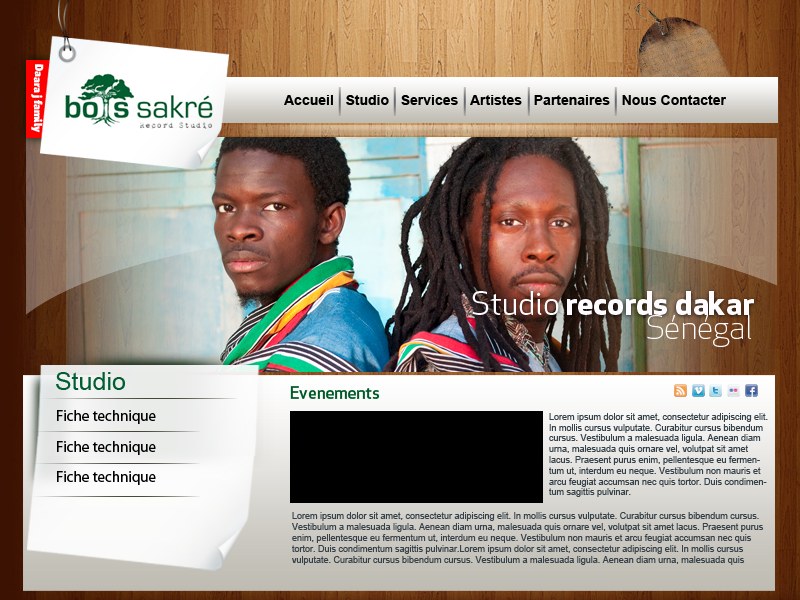
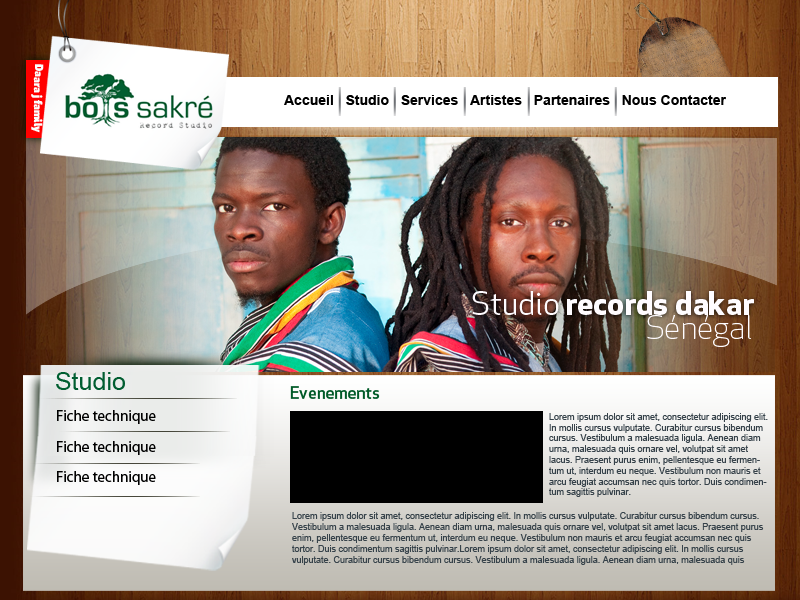
Page Intérieur plus menu gauche ok

Changed region(s): [[0.25, 0.15, 1.0, 0.21], [0.8438, 0.63, 0.9688, 0.66]]

diff --git a/site/squelettes/rubrique.html b/site/squelettes/rubrique.html
@@ -1,0 +1,176 @@
+[(#REM)
+	Un cache plus court, pour la boucle syndic_articles
+]#CACHE{3600}
+<BOUCLE_principale(RUBRIQUES) {id_rubrique}>
+<!DOCTYPE html PUBLIC "-//W3C//DTD XHTML 1.0 Transitional//EN" "http://www.w3.org/TR/xhtml1/DTD/xhtml1-transitional.dtd">
+<html xmlns="http://www.w3.org/1999/xhtml" xml:lang="#LANG" lang="#LANG" dir="#LANG_DIR">
+<head>
+<title>[(#TITRE|textebrut) - ][(#NOM_SITE_SPIP|textebrut)]</title>
+[<meta name="description" content="(#INTRODUCTION{150}|textebrut)" />]
+<INCLURE{fond=inc-head}>
+[(#REM) Lien vers le flux RSS des articles la rubrique ]
+<link rel="alternate" type="application/rss+xml" title="<:syndiquer_rubrique:>" href="[(#URL_PAGE{backend}|parametre_url{id_rubrique,#ID_RUBRIQUE})]" />
+</head>
+
+<body class="page_rubrique">
+<div id="page">
+
+	[(#REM) Entete de la page + titre du site ]
+	<INCLURE{fond=inc-entete}>
+
+	[(#REM) Contenu principal : contenu de la rubrique ]
+    <div id="conteneur">
+    <div id="contenu">
+    
+        [(#REM) Fil d'Ariane ]
+        <div id="hierarchie"><a href="#URL_SITE_SPIP/"><:accueil_site:></a><BOUCLE_ariane(HIERARCHIE){id_rubrique}> &gt; <a href="#URL_RUBRIQUE">[(#TITRE|couper{80})]</a></BOUCLE_ariane>[ &gt; <strong class="on">(#TITRE|couper{80})</strong>]</div>
+
+        <div class="cartouche">
+            [(#LOGO_RUBRIQUE|image_reduire{200,200})]
+            <h1 class="#EDIT{titre}">#TITRE</h1>
+            [<p><small><:dernier_ajout:> : (#DATE|affdate_jourcourt).</small></p>]
+        </div>
+
+        [<div class="#EDIT{texte} chapo">(#TEXTE)</div>]
+
+        [(#REM) Articles de la rubrique ]
+        <B_articles>
+        <div class="menu articles">
+            #ANCRE_PAGINATION
+            <h2><:articles_rubrique:></h2>
+            <ul>
+                <BOUCLE_articles(ARTICLES) {id_rubrique} {par date}{inverse} {pagination}>
+                <li>
+                    [(#LOGO_ARTICLE{#URL_ARTICLE}|image_reduire{150,100})]
+                    <h3><a href="#URL_ARTICLE">#TITRE</a></h3>
+                    <small>[(#DATE|affdate_jourcourt)][, <:par_auteur:> (#LESAUTEURS)]</small>
+                </li>
+                </BOUCLE_articles>
+            </ul>
+            [<p class="pagination">(#PAGINATION)</p>]
+        </div>
+        </B_articles>
+
+        [(#REM) Si aucun article, affiche un plan de la rubrique ]
+        <B_sous_rubriques>
+        <div class="menu rubriques">
+            <h2><:sous_rubriques:></h2>
+            <ul>
+                <BOUCLE_sous_rubriques(RUBRIQUES) {id_parent} {par num titre, titre}>
+                <li>
+                    <a href="#URL_RUBRIQUE">[(#TITRE)]</a>
+
+                    [(#REM) Une boucle recursive pour le mini plan]
+                    <B_miniplan>
+                    <ul>
+                        <BOUCLE_miniplan(RUBRIQUES) {id_parent} {par num titre, titre}>
+                        <li>
+                            <a href="#URL_RUBRIQUE">[(#TITRE)]</a>
+                            <BOUCLE_m2(BOUCLE_miniplan)></BOUCLE_m2>
+                        </li>
+                        </BOUCLE_miniplan>
+                    </ul>
+                    </B_miniplan>
+
+                </li>
+                </BOUCLE_sous_rubriques>
+            </ul>
+            </div>
+        </B_sous_rubriques>
+
+        <//B_articles>[(#REM) supprimer pour toujours avoir le miniplan]
+
+
+        [(#REM) Documents joints a la rubrique ]
+        <B_documents_joints>
+        <div class="menu" id="documents_joints">
+            <h2><:titre_documents_joints:></h2>
+            <ul>
+                <BOUCLE_documents_joints(DOCUMENTS) {id_rubrique} {mode=document} {par num titre, date} {doublons}>
+                <li>
+                    <strong><a href="#URL_DOCUMENT" title="<:bouton_telecharger:>" type="#MIME_TYPE">[(#TITRE|sinon{<:info_document:>})]</a></strong>
+                    <small>(#TYPE_DOCUMENT[ &ndash; (#TAILLE|taille_en_octets)])</small>
+                    #DESCRIPTIF
+                </li>
+                </BOUCLE_documents_joints>
+            </ul>
+        </div>
+        </B_documents_joints>
+
+        [(#REM) Breves du secteur ]
+        <B_breves>
+        <div class="menu">
+            #ANCRE_PAGINATION
+            <h2><:breves:></h2>
+            <ul>
+                <BOUCLE_breves(BREVES) {id_rubrique} {par date}{inverse} {pagination 5}>
+                <li>[(#DATE|affdate_jourcourt) &ndash; ]<a href="#URL_BREVE">#TITRE</a></li>
+                </BOUCLE_breves>
+            </ul>
+            [<p class="pagination">(#PAGINATION)</p>]
+        </div>
+        </B_breves>
+
+        [(#REM) Sites de la rubrique ]
+        <B_sites>
+        <div class="menu">
+            <h2><:sur_web:></h2>
+            <ul>
+                <BOUCLE_sites(SITES) {id_rubrique} {par nom_site}>
+                <li>
+					<a href="[(#ID_SYNDIC|generer_url_entite{site,'','',#CONNECT})]">#NOM_SITE</a>
+                    <B_syndic>
+                    <ul>
+                        <BOUCLE_syndic(SYNDIC_ARTICLES) {id_syndic} {age<180} {par date}{inverse} {0,3}>
+                        <li><a href="#URL_ARTICLE" class="spip_out">#TITRE</a></li>
+                        </BOUCLE_syndic>
+                    </ul>
+                    </B_syndic>
+                </li>
+                </BOUCLE_sites>
+            </ul>
+        </div>
+        </B_sites>
+
+        [(#REM) Proposer un site ]
+        #FORMULAIRE_SITE
+
+        [<div class="notes"><h2><:info_notes:></h2>(#NOTES)</div>]
+
+	</div><!--#contenu-->
+	</div><!--#conteneur-->
+
+    [(#REM) Menu de navigation laterale ]
+    <div id="navigation">
+
+        [(#REM) Menu de navigation par rubriques ]
+        <INCLURE{fond=inc-rubriques}{id_rubrique}>
+		
+		#FORMULAIRE_RECHERCHE
+
+    </div><!--#navigation-->
+    
+    [(#REM) Menu de navigation laterale ]
+    <div id="extra">
+
+        [(#REM) Menu de navigation mots-cles ]
+        <B_mots>
+        <div class="menu">
+            <h2><:mots_clefs:></h2>
+            <ul>
+                <BOUCLE_mots(MOTS) {id_rubrique} {par titre}>
+                <li><a href="#URL_MOT" rel="tag">#TITRE</a></li>
+                </BOUCLE_mots>
+            </ul>
+        </div>
+        </B_mots>
+        
+    </div><!--#extra-->
+
+	[(#REM) Pied de page ]
+	<INCLURE{fond=inc-pied}{skel=#SQUELETTE}>
+
+</div><!--#page-->
+</body>
+</html>
+</BOUCLE_principale>

diff --git a/site/squelettes/bois_sac.css b/site/squelettes/bois_sac.css
@@ -1,10 +1,12 @@
 /* --------------------------------------------------------- */
 /* Feuille de style Bois Sac  								*/
 /* --------------------------------------------------------- */
-body { 
-background-image: url("../IMG/bois_sac/fond.jpg");
-background-repeat: no-repeat;
-background-position: top center;
+body {
+	background-image: url(../IMG/bois_sac/fond.jpg);
+	background-repeat: no-repeat;
+	background-position: center top;
+	background-color: #3c1202;
+	background-attachment: fixed;
 }
 /*** entete ***/
 #entete #logo{
@@ -49,9 +51,11 @@ background-position: top center;
 }
 /*** banner ***/
 #banner {
-	margin-bottom:3px;
 	width: 100%;
 	text-align: center;
+	margin : 0 0 3px 0;
+	padding-top:5px;
+	clear:both;
 }
 
 
@@ -94,4 +98,37 @@ background-position: top center;
 	border-bottom :2px solid #2A0000;
 	border-right :6px solid #2A0000;
 	border-left :6px solid #2A0000;
+}
+#navigation div.menu {
+	background-image: url(../IMG/bois_sac/menu_fond_01.png);
+	background-repeat: no-repeat;
+	background-position: left top;
+	width:35%;
+	position: absolute;
+	margin-top: -47px;
+}
+#navigation div.menu h2{
+	padding-left:10px;
+	padding-top:15px;
+	color: #005A28;
+	background-image: url(../IMG/bois_sac/trai.png);
+	background-repeat: no-repeat;
+	background-position: left bottom;
+}
+
+#navigation div.menu ul{
+	background-image: url(../IMG/bois_sac/menu_fond_02.png);
+	background-repeat: no-repeat;
+	background-position: left bottom;
+	min-height:150px;
+	padding-left:10px;
+	padding-top:5px;
+}
+#navigation div.menu ul li{
+	background-image: url(../IMG/bois_sac/trai.png);
+	background-repeat: no-repeat;
+	background-position: left bottom;
+}
+#navigation div.menu ul li a{
+	color:#000;
 }

diff --git a/site/squelettes/article.html b/site/squelettes/article.html
@@ -12,7 +12,10 @@
 
 	[(#REM) Entete de la page + titre du site ]
 	<INCLURE{fond=inc-entete}>
-
+<div id="banner">
+	<img src="IMG/bois_sac/banner.png" alt="banner" title="banner">
+</div>
+<div id="corps">
 	[(#REM) Contenu principal : contenu de l'article ]
     <div class="hfeed" id="conteneur">
     <div class="hentry" id="contenu">
@@ -75,13 +78,12 @@
         [(#REM) Menu de navigation par rubriques ]
         <INCLURE{fond=inc-rubriques}{id_rubrique}>
 	
-		#FORMULAIRE_RECHERCHE
 
     </div><!--#navigation-->
     
     [(#REM) Menu de navigation laterale ]
     <div id="extra">
-
+		#FORMULAIRE_RECHERCHE
         [(#REM) Articles dans la meme rubrique ]
         <B_articles_rubrique>
         <div class="menu">
@@ -98,7 +100,7 @@
         #MODELE{article_mots}
         
     </div><!--#extra-->
-
+<div><!--#corps-->
 	[(#REM) Pied de page ]
 	<INCLURE{fond=inc-pied}{skel=#SQUELETTE}>
 

diff --git a/site/squelettes/sommaire.html b/site/squelettes/sommaire.html
@@ -69,7 +69,7 @@
 		<img src="IMG/bois_sac/photo01.jpg" alt="photo01" title="photo01">
 		Quand l’Afrique est votre berceau et Dakar votre terrain de jeu, quand la bande son de votre enfance mêle aussi bien la musique traditionnelle du Sénégal que James Brown ou les Pink Floyd, quand la déflagration Public Ennemy change radicalement votre vision de 
 	</div><!--#navigation-->
-<div><!--#corps-->
+
 	
 	[(#REM) Menu de navigation laterale ]
 	<div id="extra">
@@ -78,7 +78,7 @@
 		#FORMULAIRE_INSCRIPTION
 		
 	</div><!--#extra-->
-	
+<div><!--#corps-->	
 	[(#REM) Pied de page ]
 	<INCLURE{fond=inc-pied}{skel=#SQUELETTE}>
 	

diff --git a/site/squelettes/habillage.css b/site/squelettes/habillage.css
@@ -182,7 +182,7 @@ ul ul ul ul ul .forum-chapo { background: #FFF; }
 
 /* Rubriques */
 .rubriques ul { border: 0; }
-.rubriques ul li { background: #EEE; border: 0; }
+.rubriques ul li {border: 0; }
 
 .formulaire_recherche { margin-bottom: 2em; } /*Cf.: spip_formulaires.css*/
 
